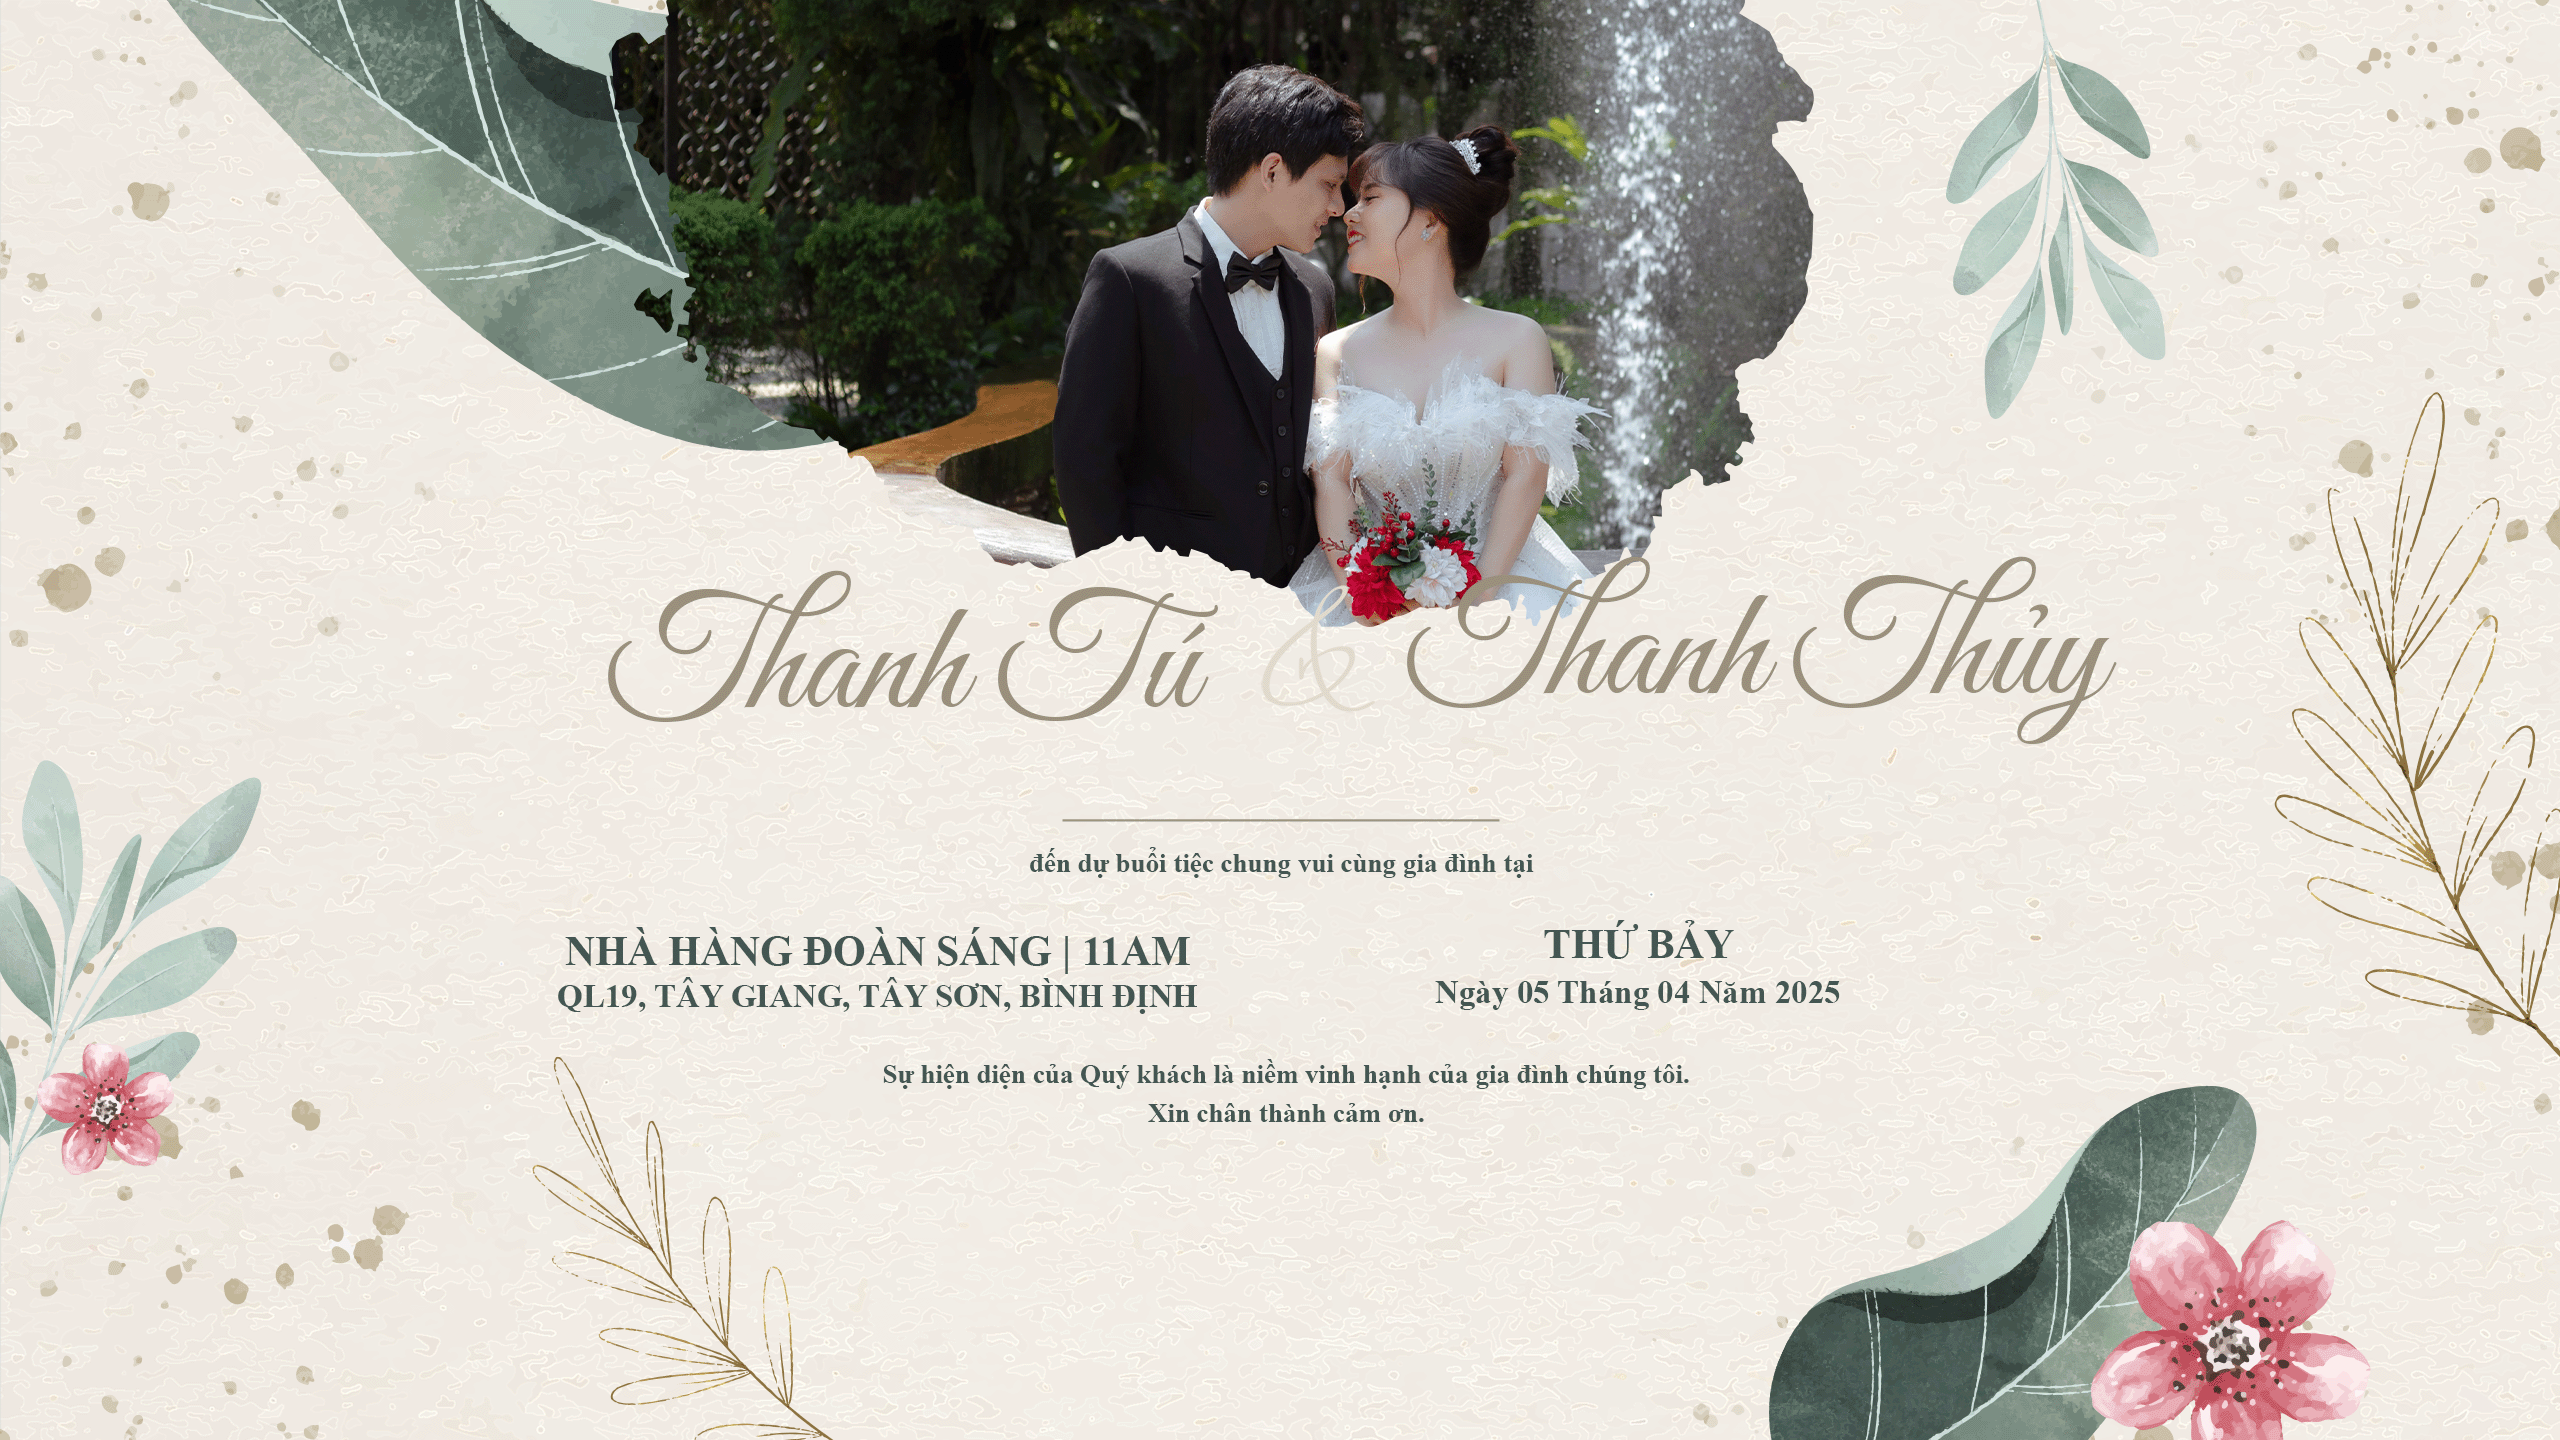
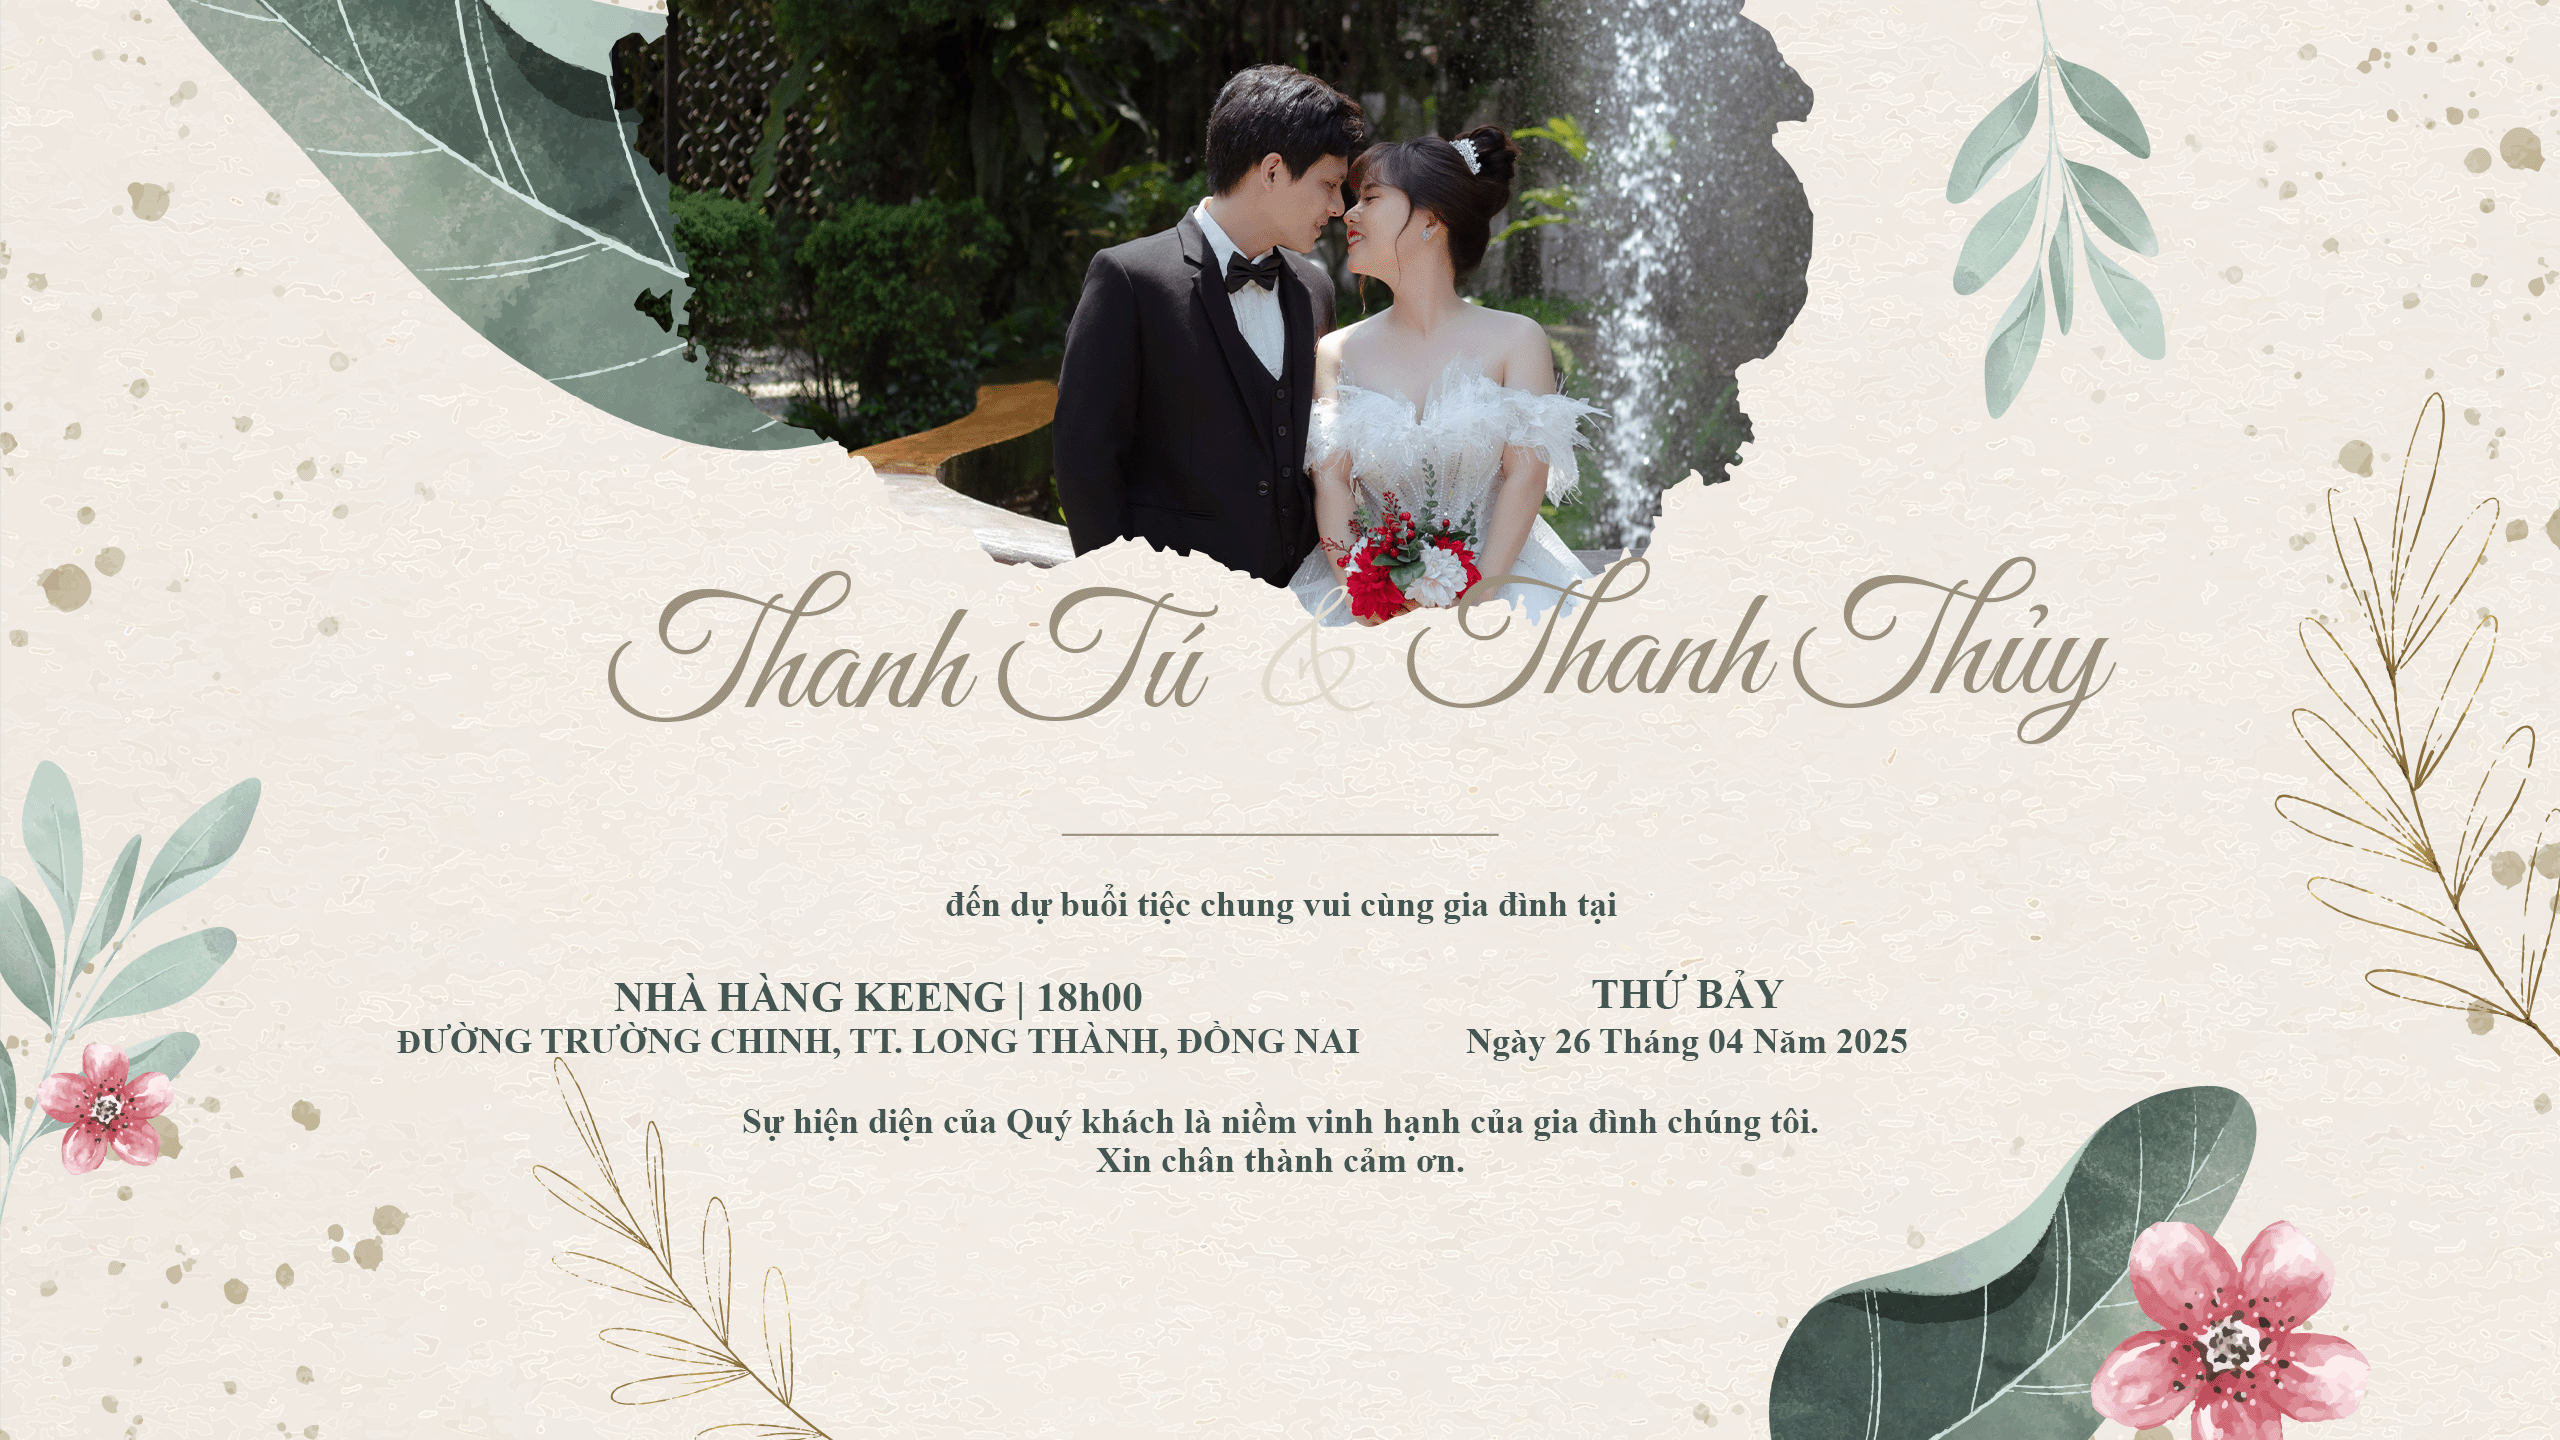
styles: update date time and location

Changed region(s): [[0.1562, 0.5625, 0.75, 0.8125]]

diff --git a/src/sections/love-story.jsx b/src/sections/love-story.jsx
@@ -13,7 +13,7 @@ import {
 
 const timelineItems = [
   {
-    title: "Lần đầu gặp nhau",
+    title: "First time we meet",
     text: "Chúng mình gặp nhau một cách thật tình cờ trong buổi gặp gỡ cùng bạn bè. Từ những câu chuyện xã giao ban đầu, dần dần chúng mình nói cười nhiều hơn. Và có lẽ, ngay khoảnh khắc đó, một điều gì đó đẹp đẽ đã bắt đầu.",
     imgSrc: story1,
     dot: (
@@ -22,7 +22,7 @@ const timelineItems = [
     alignment: "left",
   },
   {
-    title: "Hẹn hò đầu tiên",
+    title: "First Date",
     text: "Sau khi bày tỏ tình cảm và được đáp lại, chúng mình có buổi hẹn đầu tiên. Chút hồi hộp, chút ngại ngùng, nhưng chỉ cần có nhau là đủ. Một khởi đầu nhẹ nhàng, nhưng đầy ý nghĩa.",
     imgSrc: story2,
     dot: (
@@ -33,7 +33,7 @@ const timelineItems = [
     alignment: "right",
   },
   {
-    title: "Cầu hôn",
+    title: "Marriage Proposal",
     text: "Từ hai con người xa lạ, chúng ta dần trở thành một phần quan trọng trong cuộc sống của nhau. Và giờ đây, một chương mới lại mở ra, nơi chúng ta không chỉ đồng hành mà còn cùng nhau xây dựng một tương lai chung.",
     imgSrc: story3,
     dot: (
@@ -44,7 +44,7 @@ const timelineItems = [
     alignment: "left",
   },
   {
-    title: "Đính hôn",
+    title: "Our Engagement",
     text: "Cuối cùng khoảnh khắc đặc biệt cũng đã đến. Cảm ơn vì chúng ta luôn bên nhau, cùng chia sẻ niềm vui, nỗi buồn và những giấc mơ. Không chỉ là người yêu, chúng ta còn là những người bạn, những tri kỷ cùng đồng hành. Hôm nay là một dấu mốc ý nghĩa, và chặng đường phía trước chắc chắn sẽ còn nhiều điều tuyệt vời hơn nữa. Chúc mừng chúng ta!",
     imgSrc: story4,
     dot: (

diff --git a/src/sections/wedding-events.jsx b/src/sections/wedding-events.jsx
@@ -31,7 +31,8 @@ const WeddingEvents = () => {
             </h3>
             <ul className="text-sm text-paragraph">
               <li className="flex items-center gap-2 mb-2">
-                <CiLocationOn className="text-icon" /> Tại gia, Nhơn Hải
+                <CiLocationOn className="text-icon" /> Tại gia, TP. Quy Nhơn,
+                Bình Định
               </li>
               <li className="flex items-center gap-2">
                 <CiClock2 className="text-icon" /> 06/04/2025 (8h00)
@@ -70,11 +71,11 @@ const WeddingEvents = () => {
             </h3>
             <ul className="text-sm text-paragraph">
               <li className="flex items-center gap-2 mb-2">
-                <CiLocationOn className="text-icon" /> Nhà hàng M & Tôi, Nhơn
-                Hải
+                <CiLocationOn className="text-icon" /> Nhà hàng Keeng, TT. Long
+                Thành, Đồng Nai
               </li>
               <li className="flex items-center gap-2">
-                <CiClock2 className="text-icon" /> 05/04/2025 (10h00)
+                <CiClock2 className="text-icon" /> 26/04/2025 (18h00)
               </li>
             </ul>
             <p className="text-paragraph my-4">
@@ -90,7 +91,7 @@ const WeddingEvents = () => {
             </p>
             <a
               className="see-location-btn flex items-center gap-2 uppercase text-xs md:text-sm font-bold py-2 md:py-3 px-4 md:px-6 border md:border-2 border-primary rounded-4xl w-fit"
-              href="https://maps.app.goo.gl/Kq2h4yj3QncsTyxL6"
+              href="https://maps.app.goo.gl/T138MSvWYCfuPFQf9"
               target="_blank"
             >
               Xem chỉ đường <FaArrowRight className="text-icon" size={20} />

diff --git a/src/pages/invitation/index.jsx b/src/pages/invitation/index.jsx
@@ -64,8 +64,8 @@ const BrideInvitation = () => {
         </div>
 
         <a
-          className="absolute bottom-[10%] md:bottom-[10%] lg:bottom-[10%] left-[50%] -translate-x-1/2 text-xs md:text-sm lg:text-base underline text-[#295c53]"
-          href="https://maps.app.goo.gl/hTtW5Kz1ZEy5nW5s7"
+          className="absolute bottom-[10%] md:bottom-[10%] lg:bottom-[7%] left-[50%] -translate-x-1/2 text-xs md:text-sm lg:text-base underline text-[#295c53]"
+          href="https://maps.app.goo.gl/T138MSvWYCfuPFQf9"
           target="_blank"
         >
           Xem chỉ đường
@@ -73,7 +73,7 @@ const BrideInvitation = () => {
 
         <NavLink
           to="/"
-          className="absolute bottom-[3%] left-[50%] -translate-x-1/2 text-white! bg-[#98907e]! rounded-md text-sm px-4 py-1 mt-4 mx-auto text-center"
+          className="absolute bottom-[3%] md:bottom-2 left-[50%] -translate-x-1/2 text-white! bg-[#98907e]! rounded-md text-sm px-4 py-1 mt-4 mx-auto text-center"
         >
           Về trang chủ
         </NavLink>

diff --git a/src/sections/wishes.jsx b/src/sections/wishes.jsx
@@ -47,7 +47,7 @@ const Wishes = () => {
     speed: 500,
     slidesToShow: 3,
     slidesToScroll: 3,
-    adaptiveHeight: true,
+    // adaptiveHeight: true,
     responsive: [
       {
         breakpoint: 1024,
@@ -79,14 +79,14 @@ const Wishes = () => {
       <div className="container mx-auto">
         <Carousel {...settings} arrows>
           {data?.data?.map((item, index) => (
-            <div key={item.name + index} className="p-10 align-middle!">
+            <div key={item.name + index} className="p-10">
               <div className="relative text-white rounded-2xl border border-white p-5">
                 <div className="quote">
                   <RiDoubleQuotesL
                     className="text-text absolute top-0 left-0 -z-10"
                     size={50}
                   />
-                  <p className="italic">{item.wishes}</p>
+                  <p className="italic text-justify">{item.wishes}</p>
                 </div>
 
                 <div className="text-center mt-2">

diff --git a/src/sections/wedding-date.jsx b/src/sections/wedding-date.jsx
@@ -3,7 +3,7 @@ import useCountdown from "~/hooks/useCountdown";
 import bgClock from "~/assets/images/clock-bg.png";
 
 const WeddingDate = () => {
-  const { days, hours, minutes, seconds } = useCountdown("2025-04-06T11:00:00");
+  const { days, hours, minutes, seconds } = useCountdown("2025-04-26T18:00:00");
 
   const time = [
     { text: "Days", time: days },
@@ -22,7 +22,7 @@ const WeddingDate = () => {
         </div>
 
         <h3 className="inline-block italic relative text-text text-xl md:text-2xl lg:text-3xl before:bg-primary before:w-10 before:h-[1px] before:absolute before:top-1/2 before:-left-14  after:bg-primary after:w-10 after:h-[1px] after:absolute after:top-1/2 after:-right-14">
-          06 - 04 - 2025
+          26 - 04 - 2025
         </h3>
 
         <div className="clock m-auto grid grid-cols-2 md:grid-cols-4 gap-5 lg:gap-8 w-max mt-5">

diff --git a/src/App.jsx b/src/App.jsx
@@ -4,16 +4,14 @@ import { Route, Routes } from "react-router-dom";
 import Preloader from "~/components/preloader";
 
 const HomePage = lazy(() => import("~/pages/home"));
-const BrideInvitationPage = lazy(() => import("~/pages/invitation/bride"));
-const GroomInvitationPage = lazy(() => import("~/pages/invitation/groom"));
+const InvitationPage = lazy(() => import("~/pages/invitation"));
 
 const App = () => {
   return (
     <Suspense fallback={<Preloader />}>
       <Routes>
         <Route path="/" element={<HomePage />} />
-        <Route path="/invitation/:id" element={<BrideInvitationPage />} />
-        <Route path="/invitations/:id" element={<GroomInvitationPage />} />
+        <Route path="/invitation/:id" element={<InvitationPage />} />
 
         <Route path="*" element={<HomePage />} />
       </Routes>

diff --git a/src/sections/footer.jsx b/src/sections/footer.jsx
@@ -8,7 +8,7 @@ const Footer = () => {
       <div className="container">
         <div className="px-4">
           <div className="font-corinthia text-5xl">Lời nhắn</div>
-          <div className="text-paragraph text-justify">
+          <div className="text-paragraph text-justify md:text-center">
             "Bất kể bạn học chuyên ngành gì, nhất định khi tìm việc phải tìm một
             công việc mình yêu thích, làm thật giỏi và tạo ra giá trị. Như vậy
             bạn mới có thể vui vẻ đi làm từ sáng đến tối được. Thêm nữa, hãy tìm

diff --git a/src/assets/images/invitation/index.js b/src/assets/images/invitation/index.js
@@ -1,5 +1,4 @@
 import invitationDesktop from "./invitation-desktop.png";
 import invitationMobile from "./invitation-mobile.png";
-import invitationMobileGroom from "./invitation-mobile-groom.png";
 
-export { invitationDesktop, invitationMobile, invitationMobileGroom };
+export { invitationDesktop, invitationMobile };
